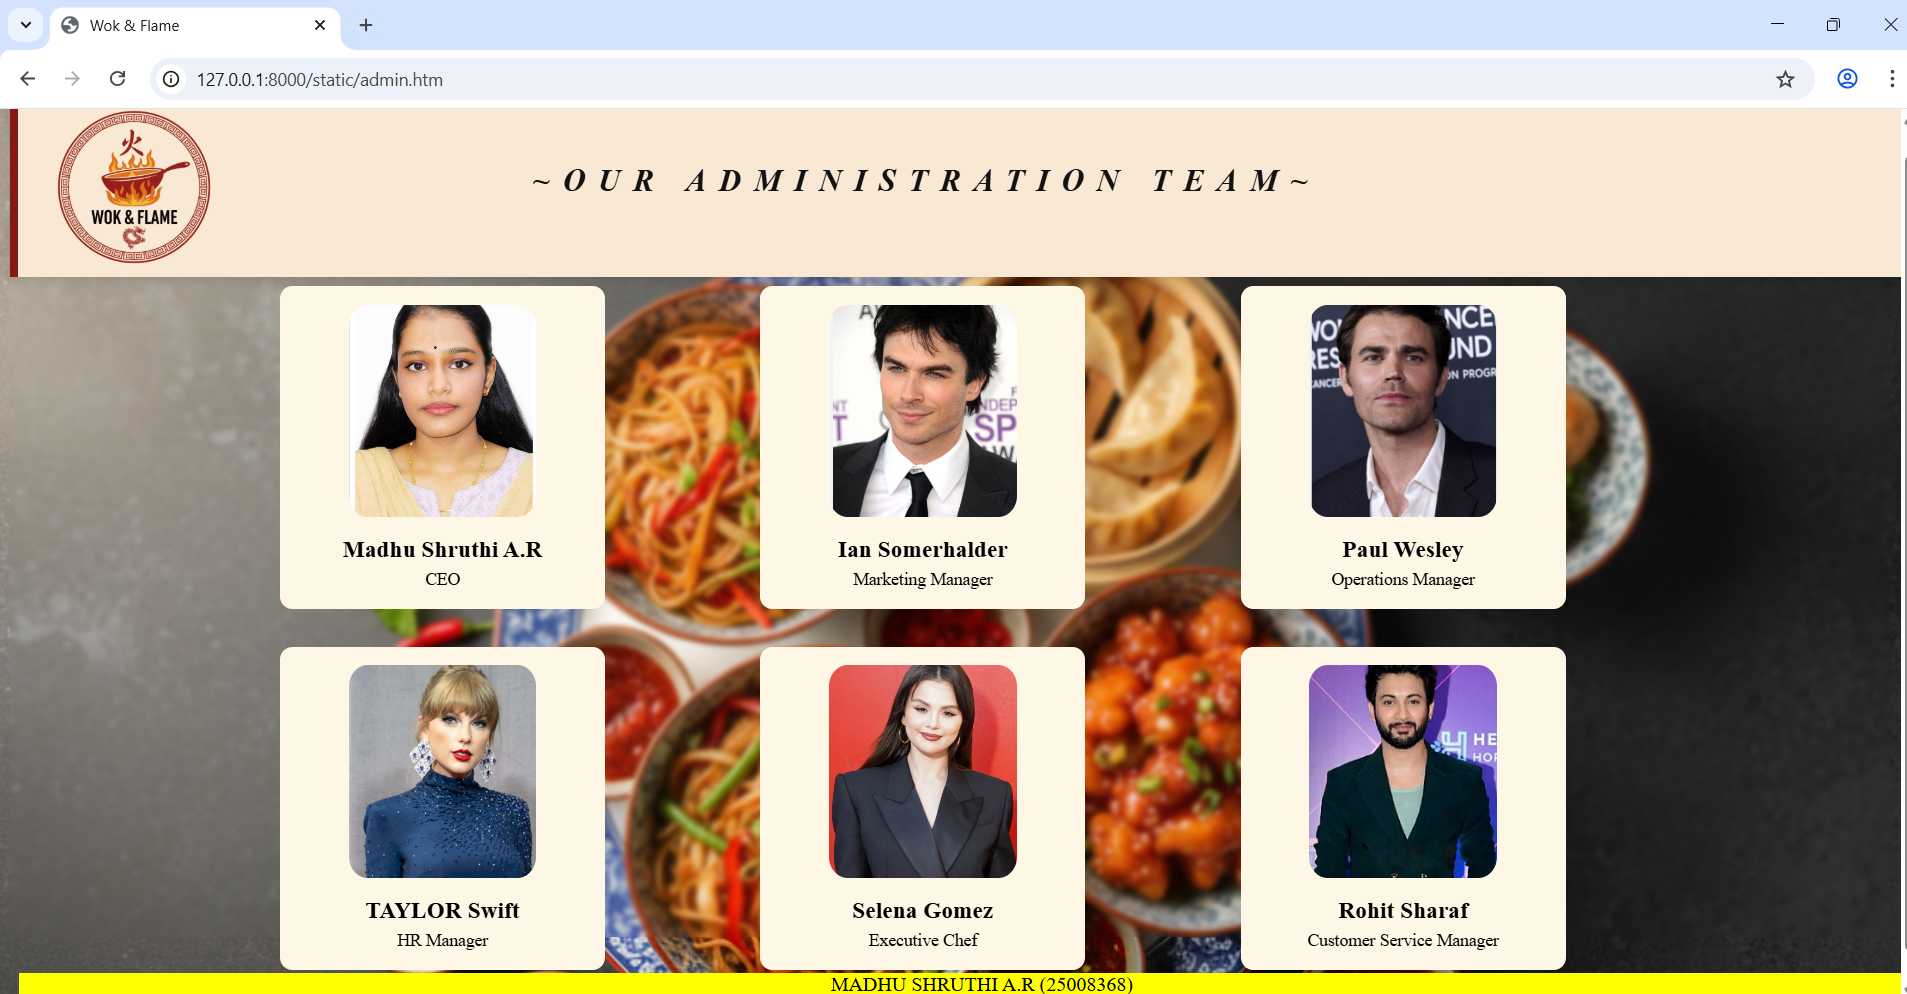
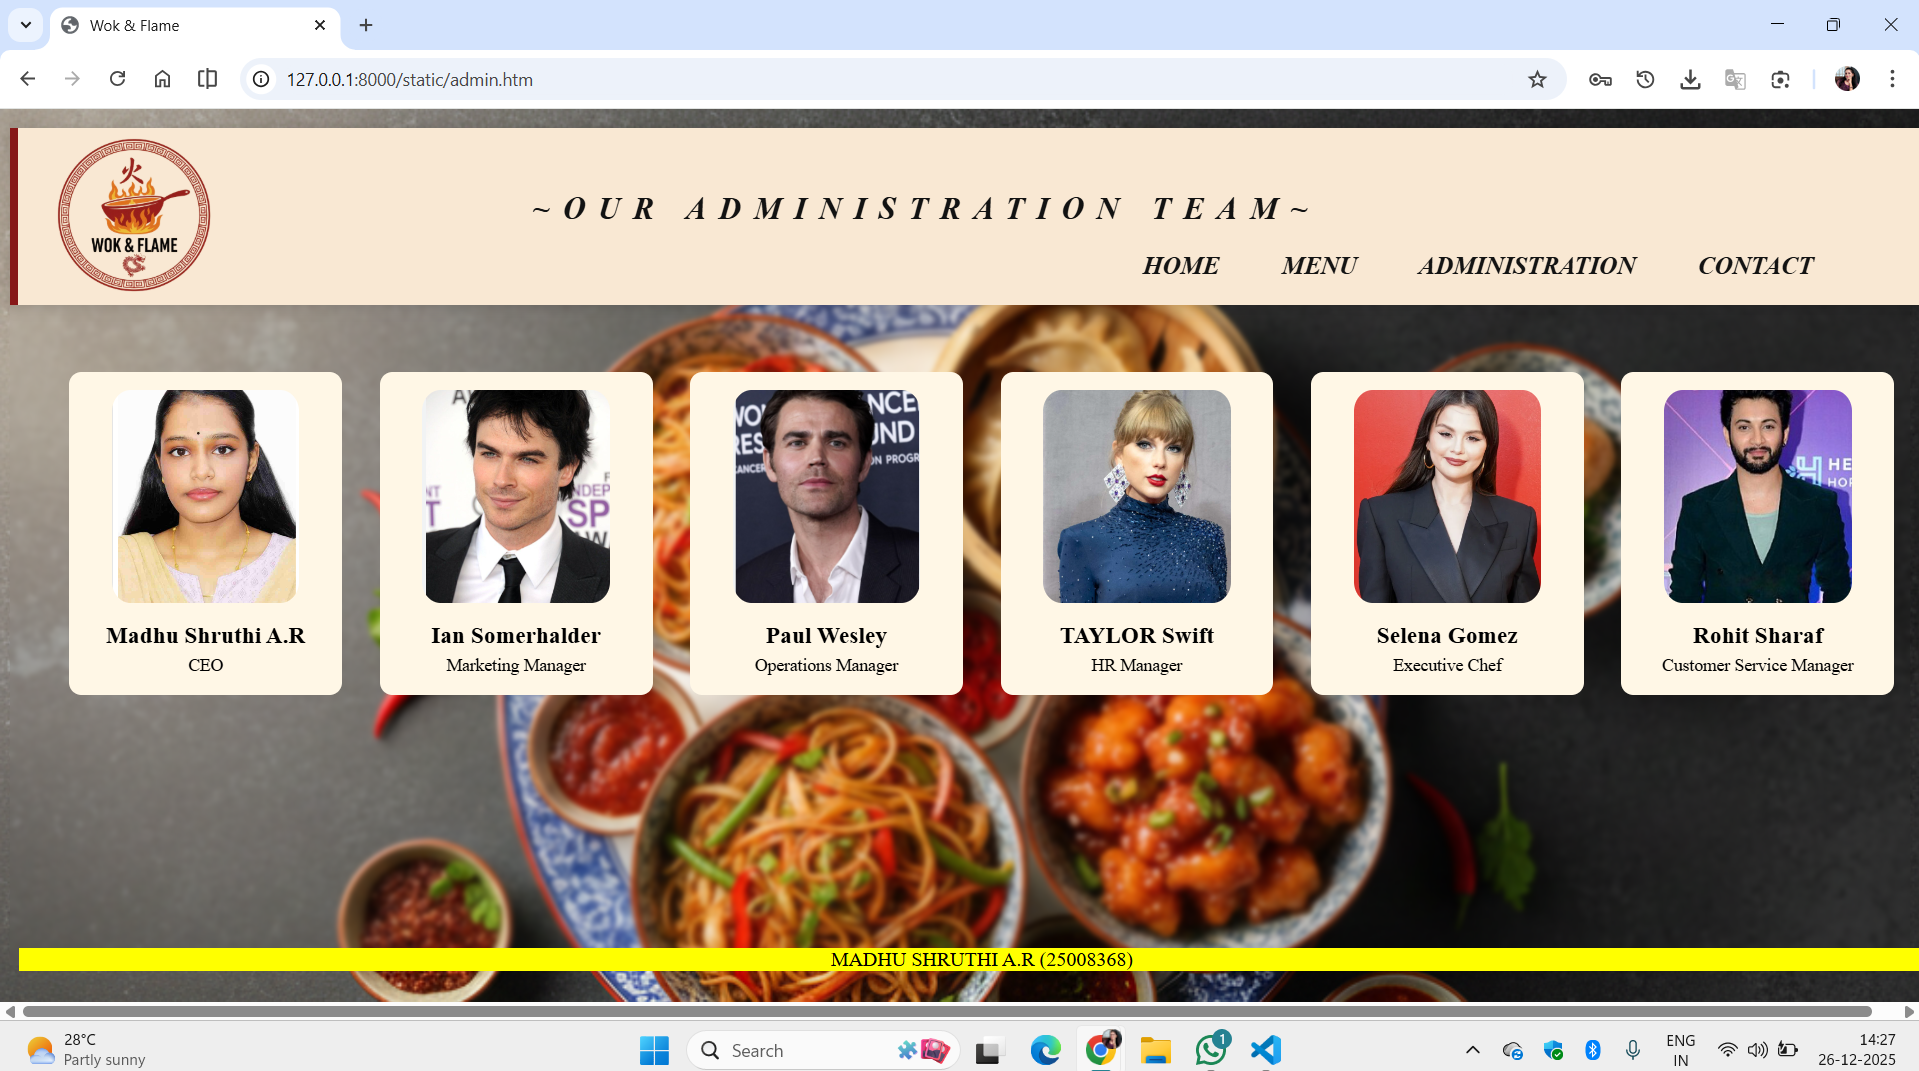
success

diff --git a/madhu/restapp/static/menu.css b/madhu/restapp/static/menu.css
@@ -49,10 +49,43 @@ body {
   grid-template-columns: 23% 23% 23% 23%;
   gap: 20px;
 }
-.food-container{
-    position: relative;
-    top:100px;
+.items 
+{
+    position: absolute;
+    left : 850px;
+    justify-content: space-between;
+    bottom: 45px;
+    gap: 500px;
+    word-spacing: 45px;
+    font-size: 20px;
+    font-display: block;
+    font-weight: 550;
+    font-style: oblique;
 }
+.items a{
+    color : rgb(19, 19, 19);
+    text-decoration: none;
+}
+.items a:hover{
+    color: maroon;
+    cursor: pointer;
+}
+
+.food-container {
+    display: flex;
+    justify-content: center;
+    align-items: flex-start;
+    gap: 30px;
+    margin-top: 5%;
+    padding-bottom: 40px;
+
+    flex-wrap: nowrap;    
+    overflow-x: auto;      
+
+    position: relative;
+    top: 100px;
+}
+
 .food-card {
   background: rgb(255 255 255);
   backdrop-filter: blur(6px);
@@ -84,6 +117,6 @@ body {
 footer{
     text-align: center;
     position: relative;
-    top: 42%;
+    top: 150%;
     background-color: yellow;
 }

diff --git a/madhu/restapp/static/admin.css b/madhu/restapp/static/admin.css
@@ -40,14 +40,36 @@ body {
     bottom: 10px;
 }
 .team {
+    display: flex;
     justify-content: center;
+    align-items: flex-start;
     gap: 30px;
-    padding-bottom: 50px;
-    position: relative;
-    top: 70%;   
-    display: grid;
-    grid-template-columns: 23% 23% 23%;
+    padding: 40px;
+    flex-wrap: nowrap;
+    margin-top: 10%;
 }
+.items 
+{
+    position: absolute;
+    left : 900px;
+    justify-content: space-between;
+    bottom: 20px;
+    gap: 500px;
+    word-spacing: 45px;
+    font-size: 20px;
+    font-display: block;
+    font-weight: 550;
+    font-style: oblique;
+}
+.items a{
+    color : rgb(19, 19, 19);
+    text-decoration: none;
+}
+.items a:hover{
+    color: maroon;
+    cursor: pointer;
+}
+
 .card {
     width: 250px;
     background: #fff7e6;
@@ -72,6 +94,6 @@ body {
 footer{
     text-align: center;
     position: relative;
-    top: 25%;
+    top: 105%;
     background-color: yellow;
 }

diff --git a/madhu/restapp/static/contact.css b/madhu/restapp/static/contact.css
@@ -86,6 +86,28 @@ h3{
     top: 10px;
     padding: 20px;
 }
+.items 
+{
+    position: absolute;
+    left : 950px;
+    justify-content: space-between;
+    bottom: 80px;
+    gap: 500px;
+    word-spacing: 45px;
+    font-size: 20px;
+    font-display: block;
+    font-weight: 550;
+    font-style: oblique;
+}
+.items a{
+    color : rgb(19, 19, 19);
+    text-decoration: none;
+}
+.items a:hover{
+    color: maroon;
+    cursor: pointer;
+}
+
 h4{
     text-align: left;
     font-size: 20px;

diff --git a/madhu/restapp/static/contact.htm b/madhu/restapp/static/contact.htm
@@ -10,7 +10,15 @@
         <div class="logo-box">
             <img src="logo.png" class="logo">
         </div>
+        
         <div class="reserve">RESERVE A TABLE NOW!</div>
+
+        <div class="items">
+            <a href="restaurant.htm">HOME</a>
+            <a href="menu.htm"> MENU</a>
+            <a href="admin.htm"> ADMINISTRATION</a>
+            <a href="contact.htm">CONTACT</a>
+        </div>
         
         <div class="contact">
             <div class="call">

diff --git a/madhu/restapp/static/admin.htm b/madhu/restapp/static/admin.htm
@@ -10,6 +10,12 @@
         <div class="logo-box">
             <img src="logo.png" class="logo">
         </div>
+        <div class="items">
+            <a href="restaurant.htm">HOME</a>
+            <a href="menu.htm"> MENU</a>
+            <a href="admin.htm"> ADMINISTRATION</a>
+            <a href="contact.htm">CONTACT</a>
+        </div>
     <div class="team">
 
         <div class="card">

diff --git a/madhu/restapp/static/menu.htm b/madhu/restapp/static/menu.htm
@@ -10,6 +10,12 @@
         </div>
 
   <h1 class="menu">~OUR MENU~</h1>
+  <div class="items">
+            <a href="restaurant.htm">HOME</a>
+            <a href="menu.htm"> MENU</a>
+            <a href="admin.htm"> ADMINISTRATION</a>
+            <a href="contact.htm">CONTACT</a>
+        </div>
 
   <div class="food-container">
 

diff --git a/README.md b/README.md
@@ -1,5 +1,5 @@
 # Ex.06 Restaurant Website
-## Date: 17-12-2025
+## Date: 26-12-2025
 
 ## AIM:
 To develop a static Restaurant website to display the food items and services provided by them.
@@ -145,8 +145,7 @@ footer{
 
  ```
  menu.html
-
- <html>
+<html>
     <head>
      <title>Wok & Flame</title>
     <link href="menu.css" rel="stylesheet">
@@ -158,6 +157,12 @@ footer{
         </div>
 
   <h1 class="menu">~OUR MENU~</h1>
+  <div class="items">
+            <a href="restaurant.htm">HOME</a>
+            <a href="menu.htm"> MENU</a>
+            <a href="admin.htm"> ADMINISTRATION</a>
+            <a href="contact.htm">CONTACT</a>
+        </div>
 
   <div class="food-container">
 
@@ -216,8 +221,8 @@ footer{
 </body>
 </html>
 
+ 
 menu.css
-
 body {
     background-image: url(bg3.png);  
     background-repeat: no-repeat;  
@@ -269,10 +274,43 @@ body {
   grid-template-columns: 23% 23% 23% 23%;
   gap: 20px;
 }
-.food-container{
-    position: relative;
-    top:100px;
+.items 
+{
+    position: absolute;
+    left : 850px;
+    justify-content: space-between;
+    bottom: 45px;
+    gap: 500px;
+    word-spacing: 45px;
+    font-size: 20px;
+    font-display: block;
+    font-weight: 550;
+    font-style: oblique;
 }
+.items a{
+    color : rgb(19, 19, 19);
+    text-decoration: none;
+}
+.items a:hover{
+    color: maroon;
+    cursor: pointer;
+}
+
+.food-container {
+    display: flex;
+    justify-content: center;
+    align-items: flex-start;
+    gap: 30px;
+    margin-top: 5%;
+    padding-bottom: 40px;
+
+    flex-wrap: nowrap;    
+    overflow-x: auto;      
+
+    position: relative;
+    top: 100px;
+}
+
 .food-card {
   background: rgb(255 255 255);
   backdrop-filter: blur(6px);
@@ -304,10 +342,12 @@ body {
 footer{
     text-align: center;
     position: relative;
-    top: 42%;
+    top: 150%;
     background-color: yellow;
 }
  ```
+
+ 
 ```
 admin.html
 
@@ -323,6 +363,13 @@ admin.html
         <div class="logo-box">
             <img src="logo.png" class="logo">
         </div>
+          <div class="items">
+            <a href="restaurant.htm">HOME</a>
+            <a href="menu.htm"> MENU</a>
+            <a href="admin.htm"> ADMINISTRATION</a>
+            <a href="contact.htm">CONTACT</a>
+        </div>
+
     <div class="team">
 
         <div class="card">
@@ -412,6 +459,27 @@ body {
     left: 30px;
     bottom: 10px;
 }
+.items 
+{
+    position: absolute;
+    left : 900px;
+    justify-content: space-between;
+    bottom: 20px;
+    gap: 500px;
+    word-spacing: 45px;
+    font-size: 20px;
+    font-display: block;
+    font-weight: 550;
+    font-style: oblique;
+}
+.items a{
+    color : rgb(19, 19, 19);
+    text-decoration: none;
+}
+.items a:hover{
+    color: maroon;
+    cursor: pointer;
+}
 .team {
     justify-content: center;
     gap: 30px;
@@ -467,6 +535,12 @@ contact.html
         </div>
         <div class="reserve">RESERVE A TABLE NOW!</div>
         
+        <div class="items">
+            <a href="restaurant.htm">HOME</a>
+            <a href="menu.htm"> MENU</a>
+            <a href="admin.htm"> ADMINISTRATION</a>
+            <a href="contact.htm">CONTACT</a>
+        </div>
         <div class="contact">
             <div class="call">
                <h1> CONTACT US </h1>
@@ -550,6 +624,28 @@ body {
     position: absolute;
     left: 30px;
 }
+items 
+{
+    position: absolute;
+    left : 950px;
+    justify-content: space-between;
+    bottom: 80px;
+    gap: 500px;
+    word-spacing: 45px;
+    font-size: 20px;
+    font-display: block;
+    font-weight: 550;
+    font-style: oblique;
+}
+.items a{
+    color : rgb(19, 19, 19);
+    text-decoration: none;
+}
+.items a:hover{
+    color: maroon;
+    cursor: pointer;
+}
+
 .reserve{
     font-size: 20px;
     text-align: right;
